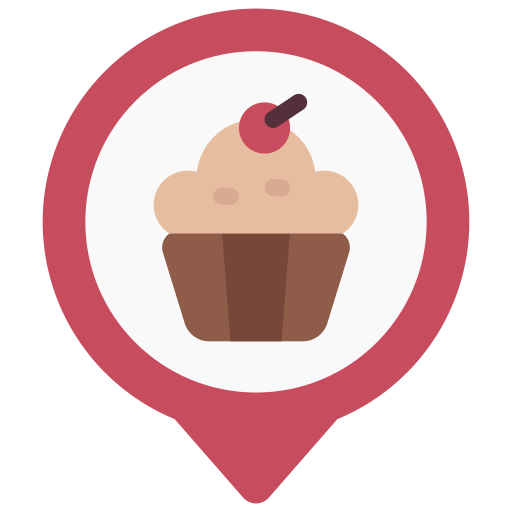
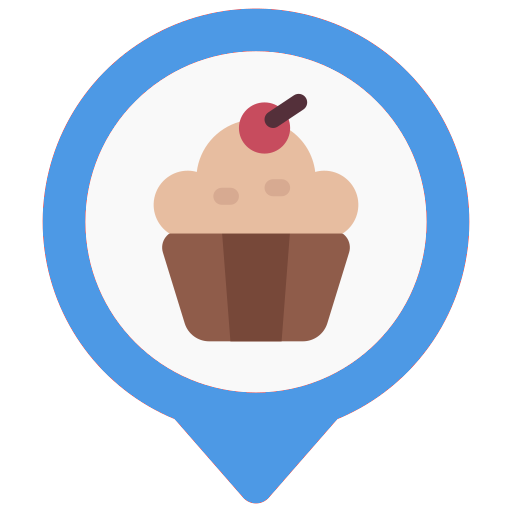
update: 경로 연결선 추가

Changed region(s): [[0.0625, 0.0, 0.9375, 1.0]]

diff --git a/src/components/common/KakaoMap.jsx b/src/components/common/KakaoMap.jsx
@@ -1,5 +1,5 @@
 import { useEffect, useState } from "react";
-import { Map, MapMarker } from "react-kakao-maps-sdk";
+import { Map, MapMarker, Polyline } from "react-kakao-maps-sdk";
 import { useRecoilValue, useSetRecoilState } from "recoil";
 import { MARKER_IMG } from "../../constants/Category";
 import { searchCategoryState, searchData, searchKeywordState, selectPlaceState } from "../../recoil/atom/searchAtom";
@@ -8,13 +8,13 @@ const { kakao } = window;
 
 function KakaoMap() {
   const [level, setLevel] = useState(3);
-  const [info, setInfo] = useState();
+  // const [info, setInfo] = useState();
   const [map, setMap] = useState();
   const [location, setLocation] = useState(null);
   const keyword = useRecoilValue(searchKeywordState);
   const category = useRecoilValue(searchCategoryState);
   const setSearchData = useSetRecoilState(searchData);
-  const markers = useRecoilValue(selectPlaceState);
+  const selectedPlaces = useRecoilValue(selectPlaceState);
 
   useEffect(() => {
     navigator.geolocation.getCurrentPosition(successHandler, errorHandler);
@@ -48,6 +48,10 @@ function KakaoMap() {
     );
   }, [map, keyword, category]);
 
+  const getPath = () => {
+    return selectedPlaces.map((place) => ({ lat: place.y, lng: place.x }));
+  };
+
   const successHandler = (response) => {
     const { latitude, longitude } = response.coords;
     setLocation({ latitude, longitude });
@@ -60,22 +64,39 @@ function KakaoMap() {
   return (
     <Map
       center={{ lat: location ? location.latitude : 33.5563, lng: location ? location.longitude : 126.79581 }}
-      style={{ width: "100%", height: "90vh" }} // 지도 크기
+      style={{ width: "100%", height: "100vh" }} // 지도 크기
       level={level}
       onCreate={setMap}
     >
-      {markers.map((marker) => (
+      {selectedPlaces.map((marker) => (
         <MapMarker
           key={`marker-${marker.id}`}
           position={{ lat: marker.y, lng: marker.x }}
           image={{
             src: MARKER_IMG[marker.category_group_code],
-            size: { width: 30, height: 30 },
+            size: { width: 45, height: 45 },
           }}
         />
       ))}
-      <button onClick={() => setLevel(level + 1)}>-</button>
-      <button onClick={() => setLevel(level - 1)}>+</button>
+      <Polyline
+        path={[getPath()]}
+        strokeWeight={5} // 선의 두께 입니다
+        strokeColor={"#4D99E5"} // 선의 색깔입니다
+        strokeOpacity={1} // 선의 불투명도 입니다 1에서 0 사이의 값이며 0에 가까울수록 투명합니다
+        strokeStyle={"solid"} // 선의 스타일입니다
+      />
+      <button
+        className="fixed bottom-7 left-1 w-[2rem] h-[2rem] p-1 rounded-lg bg-white text-gray-600 z-30 border border-gray-400"
+        onClick={() => setLevel(level + 1)}
+      >
+        -
+      </button>
+      <button
+        className="fixed bottom-16 left-1 w-[2rem] h-[2rem] p-1 rounded-lg bg-white text-gray-600 z-30 border border-gray-400"
+        onClick={() => setLevel(level - 1)}
+      >
+        +
+      </button>
     </Map>
   );
 }
